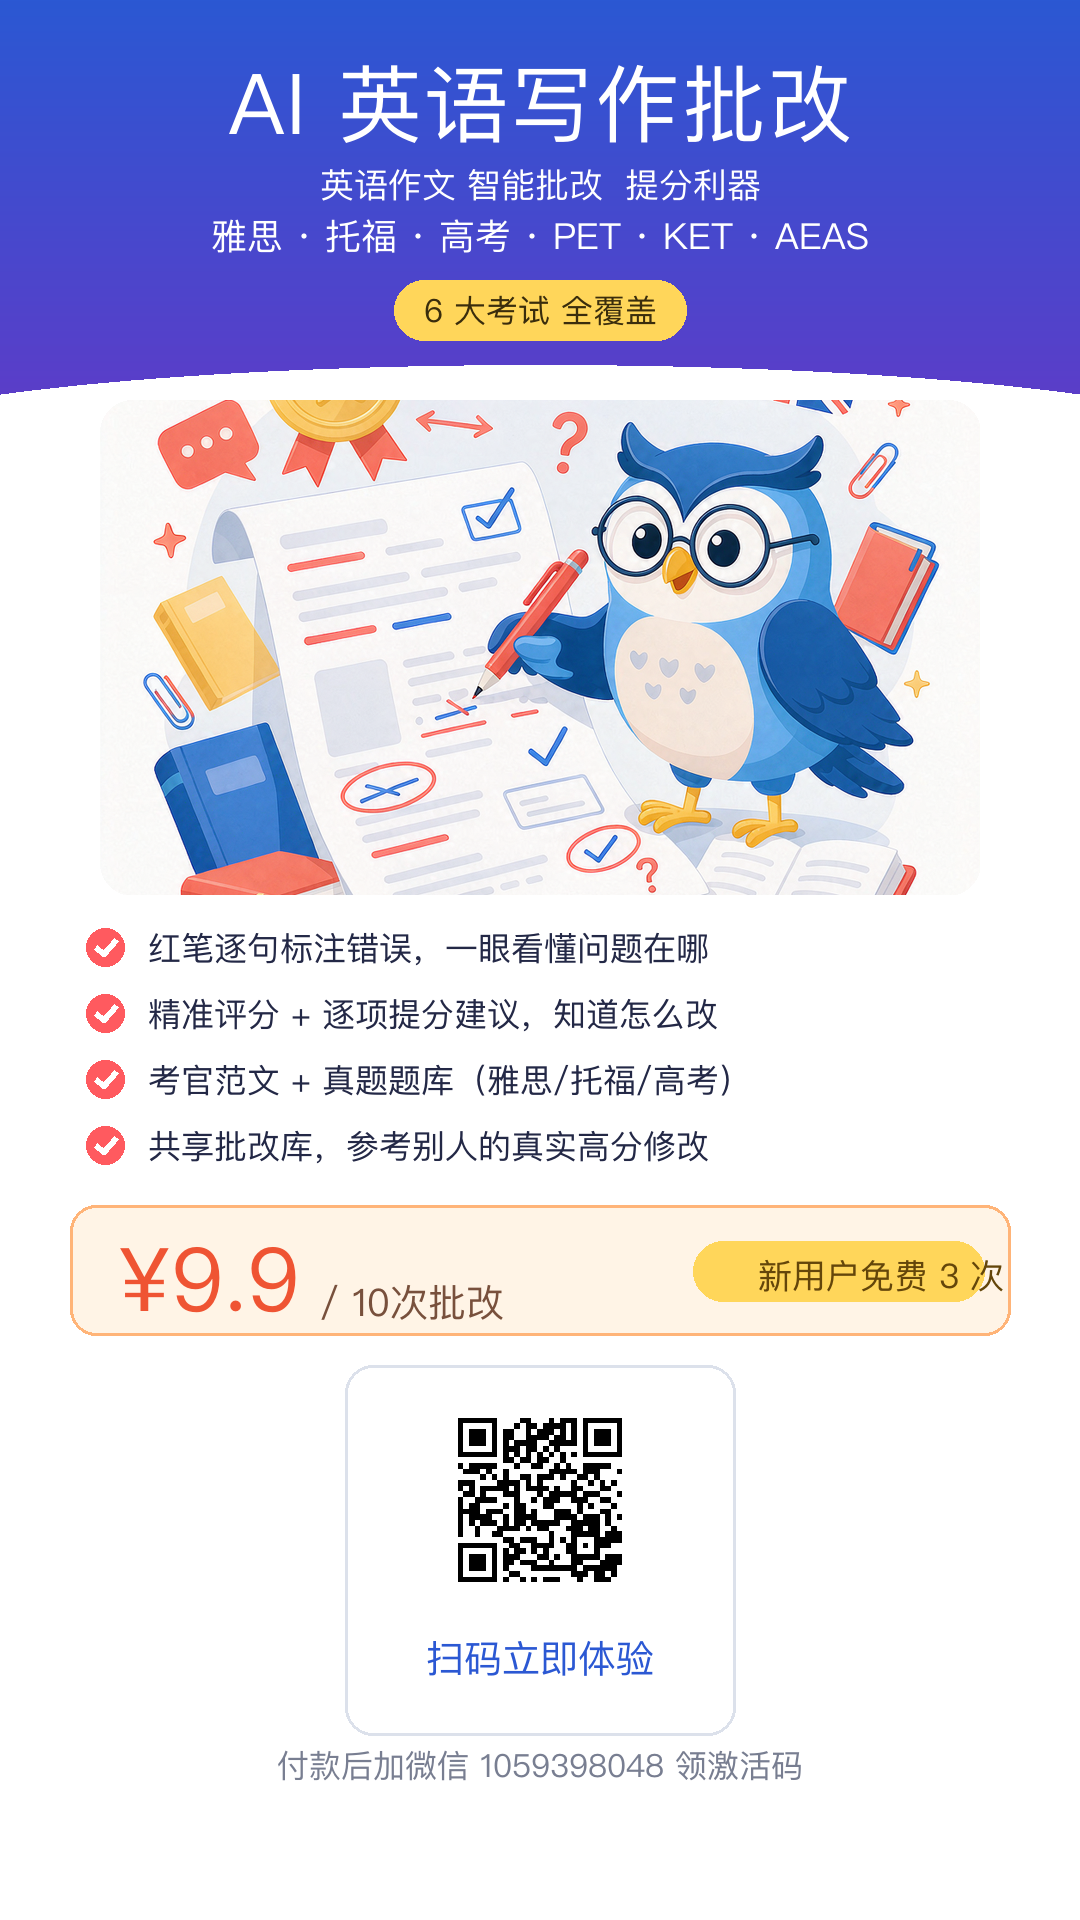
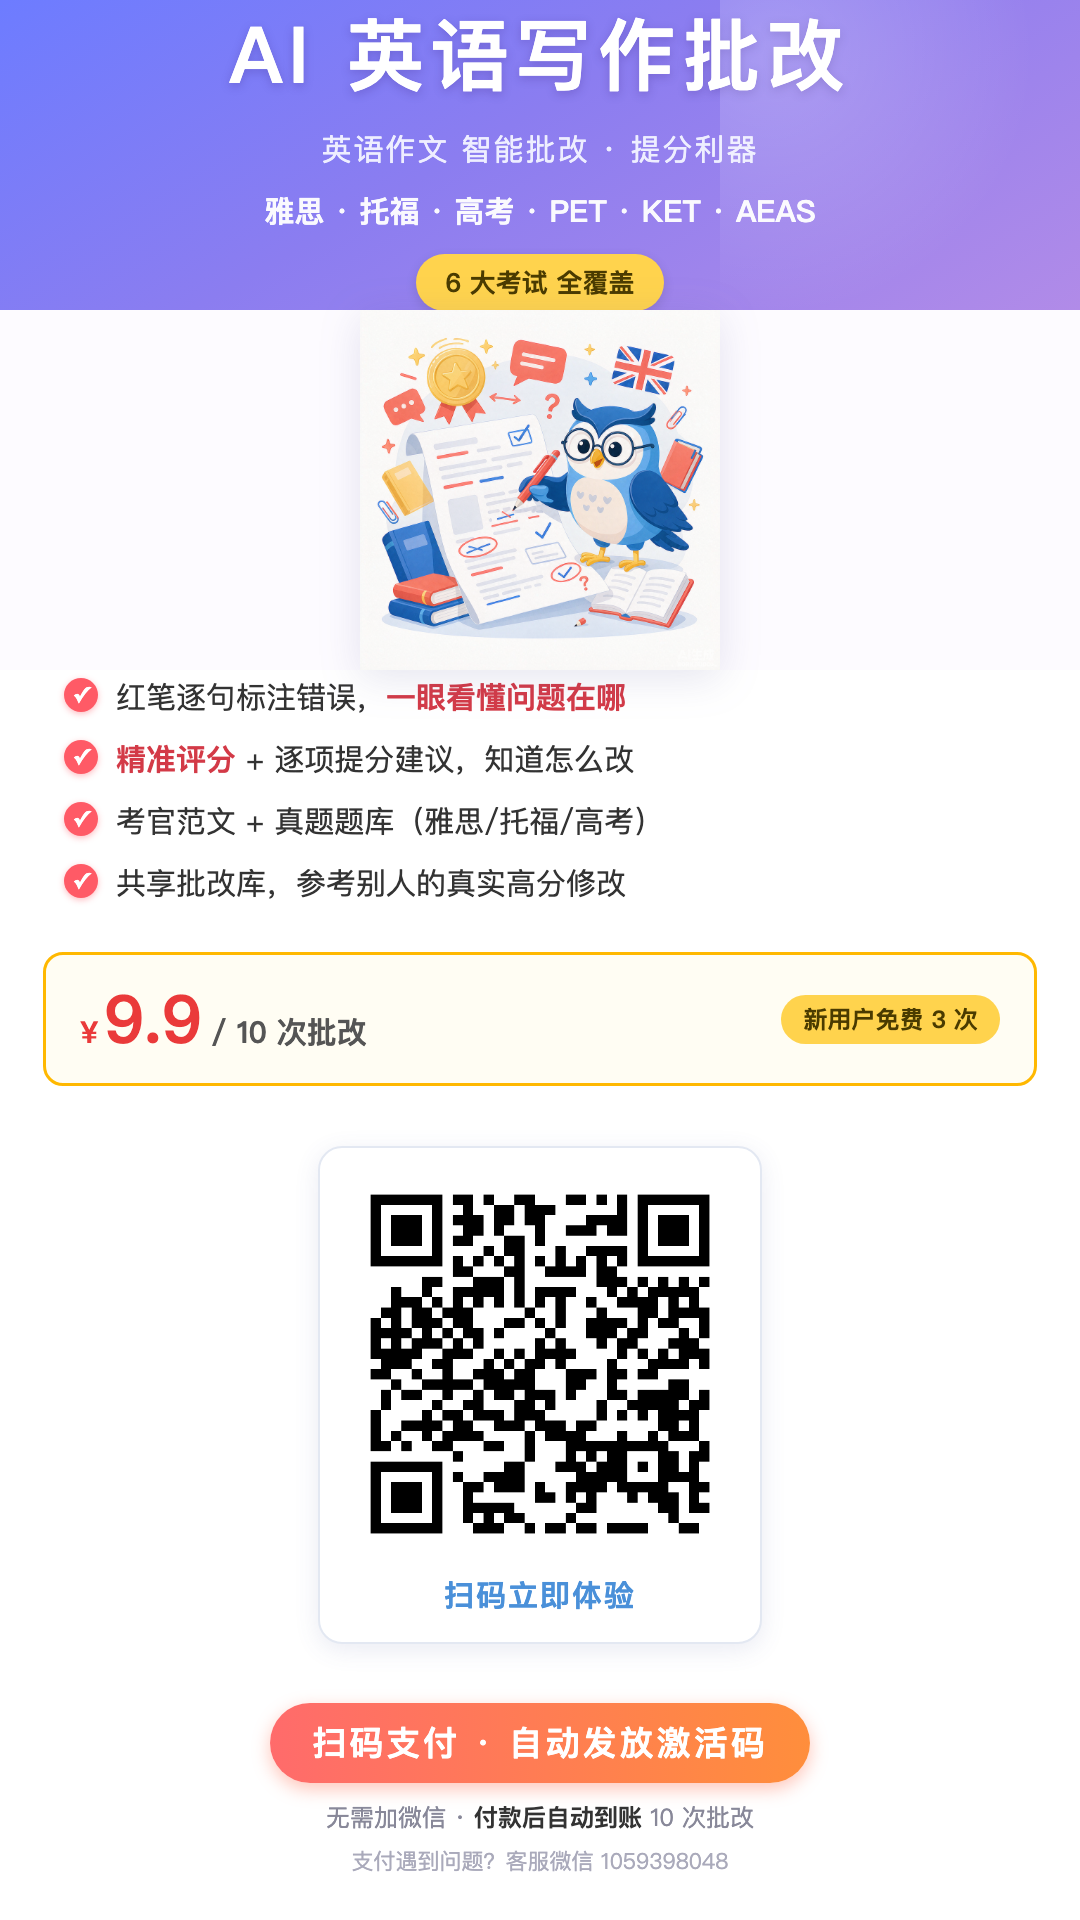
feat: 微信内支付提示 + /status 虎皮椒反查兜底发码 + 海报加客服微信
- js/app.js: 检测微信内置浏览器(MicroMessenger)，提示用户用系统浏览器打开，避免支付失败
- cloud/pay-function.js: /status 本地无订单时反查虎皮椒 query.html，已付(OD)当场补发码并落库，防回调丢失; 新增 supportContact 配置
- 修复 xhpQuery 解析: 响应数据在 data 字段，且无 hash 签名，改从 j.data 取 status/total_amount
- 海报: 底部加客服微信 1059398048 兜底，二维码指向 www.shinewood.top

diff --git a/img/poster/poster.html b/img/poster/poster.html
@@ -1,0 +1,91 @@
+<!DOCTYPE html>
+<html lang="zh-CN">
+<head>
+<meta charset="UTF-8">
+<style>
+  * { margin: 0; padding: 0; box-sizing: border-box; }
+  body { width: 1080px; height: 1920px; font-family: "PingFang SC", "Microsoft YaHei", "Noto Sans SC", sans-serif; background: #fff; overflow: hidden; }
+
+  .poster { width: 1080px; height: 1920px; position: relative; display: flex; flex-direction: column; }
+
+  /* 顶部渐变 */
+  .head { width: 100%; height: 310px; background: linear-gradient(150deg, #6d7cff 0%, #8b7df0 45%, #b18be8 100%); display: flex; flex-direction: column; align-items: center; justify-content: center; text-align: center; position: relative; }
+  .head::before { content:""; position:absolute; top:0; right:0; width:360px; height:360px; background: radial-gradient(circle at 15% 15%, rgba(255,255,255,.22) 0, rgba(255,255,255,0) 60%); }
+  .head h1 { color: #fff; font-size: 78px; font-weight: 800; letter-spacing: 6px; text-shadow: 0 3px 10px rgba(60,40,130,.25); }
+  .head .sub { color: #eef; font-size: 30px; margin-top: 18px; letter-spacing: 2px; }
+  .head .exams { color: #fff; font-size: 30px; margin-top: 20px; opacity: .96; font-weight: 600; }
+  .head .badge { margin-top: 22px; background: #ffd34d; color: #4a3b00; font-size: 26px; font-weight: 700; padding: 10px 30px; border-radius: 40px; box-shadow: 0 4px 12px rgba(0,0,0,.12); }
+
+  /* 插画 */
+  .hero { width: 100%; height: 360px; display: flex; align-items: center; justify-content: center; background: #fdfbff; }
+  .hero img { max-width: 100%; max-height: 100%; object-fit: contain; filter: drop-shadow(0 8px 20px rgba(80,80,150,.15)); }
+
+  /* 卖点列表 */
+  .features { width: 100%; padding: 6px 64px 0; }
+  .feat { display: flex; align-items: flex-start; margin-bottom: 20px; }
+  .feat .ck { flex-shrink: 0; width: 34px; height: 34px; border-radius: 50%; background: #ff5a66; color: #fff; font-size: 22px; font-weight: 800; display: flex; align-items: center; justify-content: center; margin-right: 18px; margin-top: 2px; box-shadow: 0 2px 6px rgba(255,90,102,.4); }
+  .feat .txt { font-size: 30px; color: #333; line-height: 1.4; }
+  .feat .txt b { color: #d33a47; }
+
+  /* 价格条 */
+  .price { width: 92%; margin: 28px auto 0; border: 3px solid #ffb800; background: #fffdf3; border-radius: 20px; padding: 18px 34px; display: flex; align-items: center; justify-content: space-between; }
+  .price .p { display: flex; align-items: baseline; }
+  .price .yuan { color: #ea3a3a; font-size: 66px; font-weight: 800; }
+  .price .cny { color: #ea3a3a; font-size: 30px; font-weight: 700; margin-right: 6px; }
+  .price .per { font-size: 30px; color: #555; font-weight: 600; }
+  .price .free { background: #ffd34d; color: #4a3b00; font-size: 24px; font-weight: 700; padding: 8px 22px; border-radius: 30px; }
+
+  /* 二维码区 */
+  .qr-wrap { flex: 1; display: flex; flex-direction: column; align-items: center; justify-content: center; }
+  .qr-box { border: 2px solid #e3e8f2; border-radius: 24px; padding: 26px 30px; background: #fff; box-shadow: 0 6px 24px rgba(80,90,160,.12); display: flex; flex-direction: column; align-items: center; }
+  .qr-box img { width: 380px; height: 380px; }
+  .qr-box .tip { margin-top: 20px; font-size: 30px; color: #4a90d9; font-weight: 700; letter-spacing: 2px; }
+
+  /* 底部 CTA：自动发码 */
+  .foot { padding-bottom: 44px; text-align: center; }
+  .foot .cta { background: linear-gradient(90deg, #ff6b6b, #ff8e3c); color: #fff; font-size: 34px; font-weight: 800; display: inline-block; padding: 16px 42px; border-radius: 50px; box-shadow: 0 6px 18px rgba(255,110,80,.4); letter-spacing: 3px; }
+  .foot .note { margin-top: 18px; font-size: 24px; color: #889; }
+  .foot .note b { color: #333; }
+  .foot .svc { margin-top: 12px; font-size: 22px; color: #aab; }
+</style>
+</head>
+<body>
+  <div class="poster">
+    <div class="head">
+      <h1>AI 英语写作批改</h1>
+      <div class="sub">英语作文 智能批改 · 提分利器</div>
+      <div class="exams">雅思 · 托福 · 高考 · PET · KET · AEAS</div>
+      <div class="badge">6 大考试 全覆盖</div>
+    </div>
+
+    <div class="hero">
+      <img src="Flat_modern_illustration_for_a_2026-09-05T07-32-36.png" alt="">
+    </div>
+
+    <div class="features">
+      <div class="feat"><div class="ck">✓</div><div class="txt">红笔逐句标注错误，<b>一眼看懂问题在哪</b></div></div>
+      <div class="feat"><div class="ck">✓</div><div class="txt"><b>精准评分</b> + 逐项提分建议，知道怎么改</div></div>
+      <div class="feat"><div class="ck">✓</div><div class="txt">考官范文 + 真题题库（雅思/托福/高考）</div></div>
+      <div class="feat"><div class="ck">✓</div><div class="txt">共享批改库，参考别人的真实高分修改</div></div>
+    </div>
+
+    <div class="price">
+      <div class="p"><span class="cny">¥</span><span class="yuan">9.9</span><span class="per">&nbsp;/ 10 次批改</span></div>
+      <div class="free">新用户免费 3 次</div>
+    </div>
+
+    <div class="qr-wrap">
+      <div class="qr-box">
+        <img src="site-qr.png" alt="">
+        <div class="tip">扫码立即体验</div>
+      </div>
+    </div>
+
+    <div class="foot">
+      <div class="cta">扫码支付 · 自动发放激活码</div>
+      <div class="note">无需加微信 · <b>付款后自动到账</b> 10 次批改</div>
+      <div class="note svc">支付遇到问题？客服微信 1059398048</div>
+    </div>
+  </div>
+</body>
+</html>

diff --git a/cloud/pay-function.js b/cloud/pay-function.js
@@ -43,7 +43,12 @@ const CFG = {
   ghBranch: process.env.GH_BRANCH || "main",
   siteUrl: process.env.SITE_URL || "https://penly888.github.io/Essay-checker/",
   allowOrigin: process.env.ALLOW_ORIGIN || "https://penly888.github.io",
+  // 回调/下单的公开基地址。SCF 函数 URL 事件不携带 host 头，必须显式配置，
+  // 否则 notify_url 会变成无效的相对路径 "/notify"，导致虎皮椒无法回调。
+  // 后续若绑定自定义域名(如 pay.shinewood.top)，只需改这里，不用改代码。
+  publicBase: process.env.PUBLIC_BASE || "https://1405758628-lsddru9fo0.ap-beijing.tencentscf.com",
   xhpDo: "https://api.xunhupay.com/payment/do.html",
+  supportContact: process.env.SUPPORT_CONTACT || "1059398048",
   usedDir: "data/used",
   ordersDir: "data/orders"
 };
@@ -205,6 +210,48 @@ async function deliverCode(orderId, txInfo) {
 
 function orderPath(orderId) { return CFG.ordersDir + "/" + orderId + ".json"; }
 
+// ---- /status 反查虎皮椒兜底（防回调丢失：已付但本地无订单时当场补发） ----
+const xhpQueryAt = {}; // 同一订单反查节流（前端 3s 轮询保护）
+async function xhpQuery(orderId) {
+  const params = {
+    appid: CFG.appid,
+    out_trade_order: orderId,
+    time: String(Math.floor(Date.now() / 1000)),
+    nonce_str: nonce()
+  };
+  params.hash = xhpHash(params, CFG.appsecret);
+  const body = Object.keys(params).map(k => k + "=" + encodeURIComponent(params[k])).join("&");
+  try {
+    const res = await withRetry(() => fetch("https://api.xunhupay.com/payment/query.html", {
+      method: "POST",
+      headers: { "Content-Type": "application/x-www-form-urlencoded" },
+      body: body
+    }), 2);
+    const j = await res.json().catch(() => ({}));
+    // 响应结构: {"errcode":0,"data":{status,total_amount,transaction_id,open_order_id,...}}
+    // 响应无 hash 签名；有则校验（服务器对服务器 HTTPS 调用）
+    if (!j || j.errcode !== 0 || !j.data) return null;
+    if (j.hash && xhpHash(j, CFG.appsecret) !== j.hash) return null;
+    return j.data;
+  } catch (e) { return null; }
+}
+async function statusFallback(orderId, baseHeaders) {
+  if (!CFG.appid || !CFG.appsecret) return null;
+  const now = Date.now();
+  if (xhpQueryAt[orderId] && now - xhpQueryAt[orderId] < 5000) return null;
+  xhpQueryAt[orderId] = now;
+  const data = await xhpQuery(orderId);
+  if (!data || data.status !== "OD") return null; // 未支付/查不到 → 视为 created
+  const r = await deliverCode(orderId, {
+    total_fee: data.total_amount, transaction_id: data.transaction_id,
+    open_order_id: data.open_order_id, status: "OD"
+  });
+  if (!r.ok || !r.code) return json(502, baseHeaders, { ok: false, error: "订单已支付但补发失败，请联系客服微信 " + CFG.supportContact });
+  return json(200, baseHeaders, { ok: true, status: "paid", code: r.code, orderId: orderId });
+
+  function json(status, h, obj) { return { status: status, headers: h, body: JSON.stringify(obj) }; }
+}
+
 // ---------------- 各端点处理 ----------------
 // 统一入口：返回 {status, type, body}
 async function handle(method, path, query, headers, bodyRaw) {
@@ -279,7 +326,11 @@ async function handle(method, path, query, headers, bodyRaw) {
     if (!/^[A-Za-z0-9_-]{6,64}$/.test(orderId)) return json(400, baseHeaders, { ok: false, error: "订单号格式不对" });
     const got = await ghGet(orderPath(orderId));
     if (got && got.error) return json(502, baseHeaders, { ok: false, error: "订单查询失败，请重试" });
-    if (!got) return json(200, baseHeaders, { ok: true, status: "created" });
+    if (!got) {
+      // 本地无订单（虎皮椒回调可能丢失）→ 反查虎皮椒，已付当场补发
+      const fb = await statusFallback(orderId, baseHeaders);
+      return fb || json(200, baseHeaders, { ok: true, status: "created" });
+    }
     const o = got.obj;
     if (o.status !== "paid") return json(200, baseHeaders, { ok: true, status: o.status || "created" });
     const code = decryptCode(o.enc);
@@ -328,9 +379,9 @@ function clientIp(headers) {
 }
 function publicBaseUrl(headers) {
   const host = headers["host"] || "";
-  if (!host) return "";
-  const proto = headers["x-forwarded-proto"] || "https";
-  return proto + "://" + host;
+  if (host) return (headers["x-forwarded-proto"] || "https") + "://" + host;
+  // 函数 URL 模式下无 host 头 → 回退到配置的公开基地址
+  return CFG.publicBase;
 }
 
 // ============================================================

diff --git a/js/app.js b/js/app.js
@@ -2085,6 +2085,10 @@
     startCloudPay(last);
   }
 
+  function isWeChatBrowser() {
+    return /MicroMessenger/i.test(navigator.userAgent || "");
+  }
+
   function openPayModal() {
     payStatusMsg("", "");
     updatePayUI();
@@ -2093,6 +2097,11 @@
       el.paySellerContact.textContent = contact ? ("卖家联系方式：" + contact) : "";
     }
     openModal("payModal");
+    // 微信内无法唤起扫码支付（虎皮椒限制），引导用户用系统浏览器打开
+    if (isWeChatBrowser() && cloudEnabled()) {
+      payStatusMsg("err", "⚠ 微信内暂不支持支付：请点右上角「···」→「在浏览器打开」（iPhone 选 Safari），再回来点充值，扫码支付后自动到账");
+      return;
+    }
     if (cloudEnabled()) {
       setupCloudUI();
       // 有未完成订单先恢复，否则新下单
